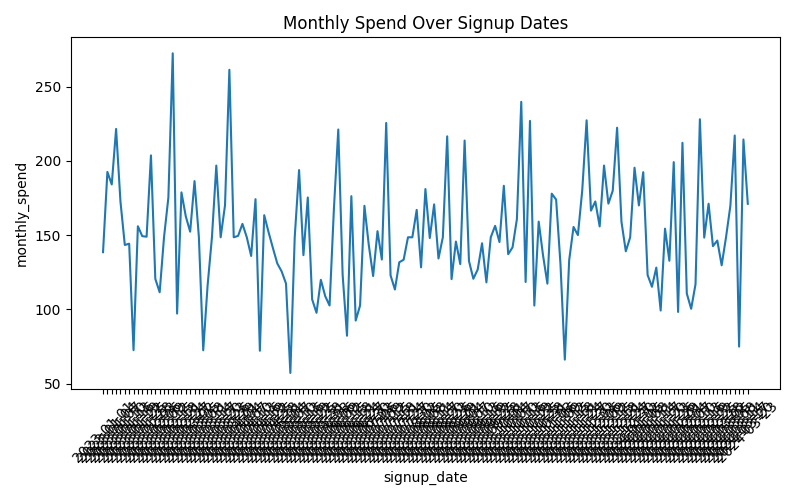
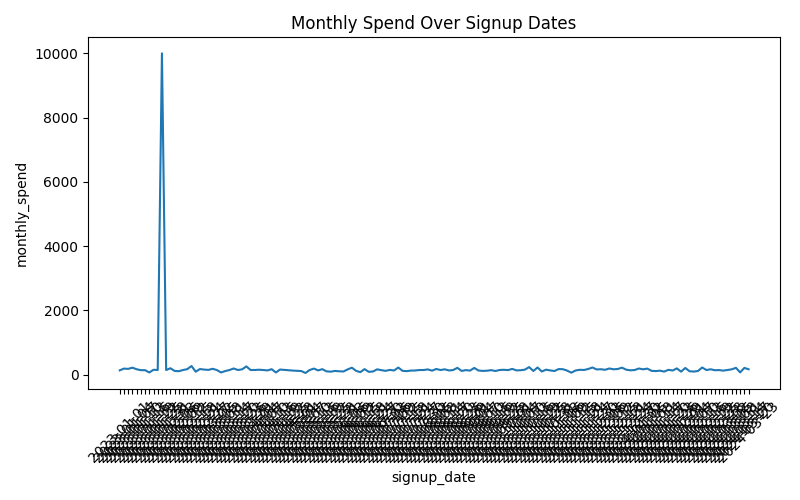
Serve chart images via StaticFiles for frontend display

diff --git a/main.py b/main.py
@@ -3,6 +3,8 @@ import uuid
 import shutil
 import json
 from fastapi import FastAPI, UploadFile, File, HTTPException, BackgroundTasks, Depends
+from fastapi.middleware.cors import CORSMiddleware
+from fastapi.staticfiles import StaticFiles
 from sqlalchemy.orm import Session
 from pydantic import BaseModel
 from pipeline import build_pipeline
@@ -10,6 +12,16 @@ from database import get_db, Dataset, User
 from auth import hash_password, verify_password, create_access_token, get_current_user
 
 app = FastAPI(title="AI Data Analyst Agent")
+
+app.add_middleware(
+    CORSMiddleware,
+    allow_origins=["http://localhost:5173"],
+    allow_credentials=True,
+    allow_methods=["*"],
+    allow_headers=["*"],
+)
+
+app.mount("/charts", StaticFiles(directory="generated_charts"), name="charts")
 
 UPLOAD_DIR = "uploads"
 os.makedirs(UPLOAD_DIR, exist_ok=True)
